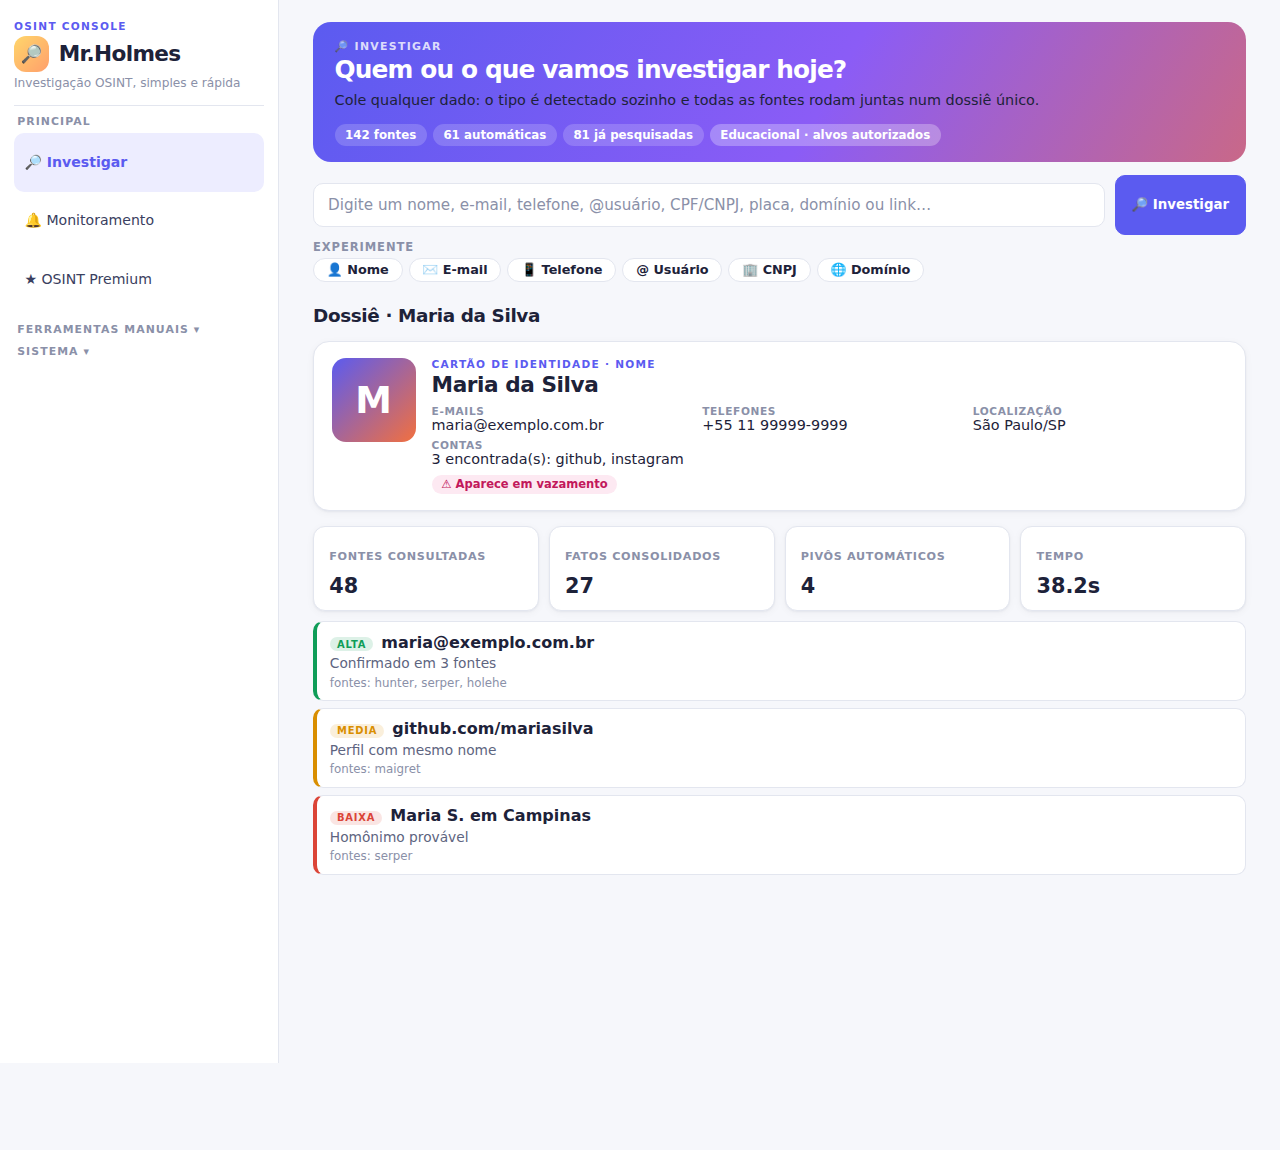
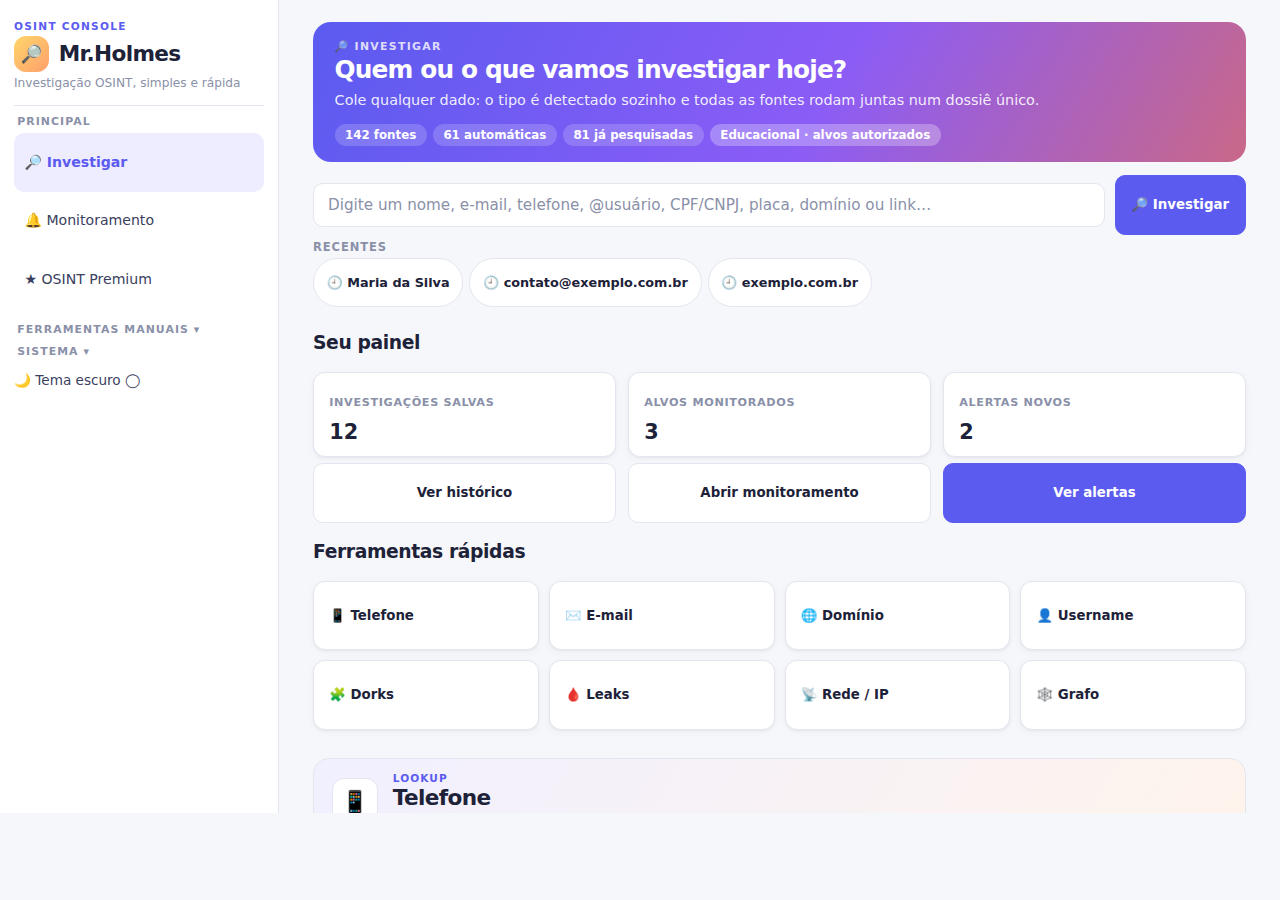
Painel inicial, Enter para investigar, títulos compactos e tema escuro opcional
- Investigar: caixa dentro de formulário, o Enter já dispara a busca
- Painel inicial antes da primeira busca: investigações salvas, alvos
  monitorados, alertas novos e atalhos para as ferramentas manuais
- page_header vira faixa compacta com o ícone da página; blocos de
  destaque internos viram cartões brancos para não repetir a faixa
- Toggle de tema escuro no menu lateral, lembrado via ?tema=escuro;
  o grafo de conexões acompanha o tema

Claude-Session: https://claude.ai/code/session_01Y6gKSdKP94gvzhjGy2zjL9

diff --git a/web_app.py b/web_app.py
@@ -181,18 +181,27 @@ span[class*="material-icons"] {
 }
 [data-testid="stExpander"] [data-testid="stIconMaterial"] { color: var(--ink-faint) !important; }
 
-.mh-page { margin-bottom: 1.1rem; }
+.mh-page {
+  display: flex; align-items: center; gap: 0.9rem;
+  border: 1px solid var(--line); border-radius: 16px; margin-bottom: 1rem;
+  padding: 0.85rem 1.1rem; background: linear-gradient(120deg, #f1f0ff 0%, #fff4ec 100%);
+}
+.mh-page-icon {
+  width: 2.8rem; height: 2.8rem; border-radius: 12px; flex-shrink: 0; font-size: 1.35rem;
+  display: flex; align-items: center; justify-content: center;
+  background: var(--panel); border: 1px solid var(--line);
+}
+.mh-page-body { min-width: 0; }
 .mh-page .eyebrow {
-  display: inline-block; font-size: 0.68rem; letter-spacing: 0.1em; font-weight: 700;
-  text-transform: uppercase; color: var(--accent); background: var(--accent-soft);
-  padding: 0.2rem 0.55rem; border-radius: 999px; margin-bottom: 0.45rem;
+  font-size: 0.66rem; letter-spacing: 0.1em; font-weight: 700;
+  text-transform: uppercase; color: var(--accent);
 }
 .mh-page h1 {
-  font-family: var(--display) !important; font-size: 1.7rem !important; font-weight: 800 !important;
-  color: var(--ink) !important; letter-spacing: -0.035em; margin: 0 !important; padding: 0 !important;
+  font-family: var(--display) !important; font-size: 1.35rem !important; font-weight: 800 !important;
+  color: var(--ink) !important; letter-spacing: -0.03em; margin: 0.05rem 0 0 !important; padding: 0 !important;
   line-height: 1.2 !important;
 }
-.mh-page .desc { margin-top: 0.35rem; color: var(--ink-soft); font-size: 0.93rem; max-width: 44rem; }
+.mh-page .desc { margin-top: 0.2rem; color: var(--ink-soft); font-size: 0.88rem; max-width: 46rem; }
 
 /* ── Botões ──────────────────────────────────────────────────────────────── */
 .stButton > button, .stDownloadButton > button, .stFormSubmitButton > button {
@@ -318,7 +327,7 @@ div:has(.mh-osint-nav-mark) .stButton > button[data-testid="stBaseButton-primary
 /* heróis das páginas: faixa clara e compacta, sem sombra pesada */
 .mh-tools-hero, .mh-premium-hero, .mh-learn-hero, .mh-dork-hero {
   border: 1px solid var(--line); border-radius: var(--radius);
-  background: linear-gradient(120deg, #f1f0ff 0%, #fff4ec 100%);
+  background: var(--panel); box-shadow: var(--shadow);
   padding: 1.05rem 1.2rem; margin-bottom: 1rem;
 }
 .mh-dork-kicker {
@@ -336,7 +345,7 @@ div:has(.mh-osint-nav-mark) .stButton > button[data-testid="stBaseButton-primary
 .mh-tools-stats { display: flex; flex-wrap: wrap; gap: 0.4rem; margin: 0.8rem 0 0 0; }
 .mh-tools-stat {
   font-size: 0.74rem; font-weight: 600; padding: 0.25rem 0.6rem; border-radius: 999px;
-  background: var(--panel); border: 1px solid var(--line); color: var(--ink-soft);
+  background: var(--accent-soft); color: var(--ink-soft);
 }
 .mh-tools-stat strong { color: var(--accent); font-weight: 800; }
 
@@ -445,6 +454,22 @@ a.mh-learn-card:hover { border-color: var(--accent); transform: translateY(-2px)
 }
 [class*="st-key-mh_chips"] .stButton > button p { font-size: 0.8rem !important; }
 
+/* atalhos do painel inicial: cartões clicáveis */
+[class*="st-key-mh_tiles"] .stButton > button {
+  justify-content: flex-start !important; padding: 0.8rem 0.95rem !important; border-radius: 12px !important;
+  box-shadow: var(--shadow) !important;
+}
+[class*="st-key-mh_tiles"] .stButton > button:hover { transform: translateY(-2px) !important; box-shadow: var(--shadow-hover) !important; }
+[class*="st-key-mh_tiles"] .stButton > button p { font-weight: 700 !important; }
+.stFormSubmitButton > button[kind="primaryFormSubmit"] p,
+.stFormSubmitButton > button[data-testid="stBaseButton-primaryFormSubmit"] p { color: #ffffff !important; }
+.stFormSubmitButton > button[data-testid="stBaseButton-primaryFormSubmit"] {
+  background: var(--accent) !important; color: #ffffff !important; border-color: var(--accent) !important;
+}
+.stFormSubmitButton > button[kind="primaryFormSubmit"]:hover,
+.stFormSubmitButton > button[data-testid="stBaseButton-primaryFormSubmit"]:hover { background: var(--accent-hover) !important; }
+[data-testid="stForm"] { padding: 0 !important; border: none !important; }
+
 /* ── Dossiê ─────────────────────────────────────────────────────────────── */
 .mh-fact {
   background: var(--panel); border: 1px solid var(--line); border-left: 4px solid var(--c, var(--ink-faint));
@@ -485,6 +510,52 @@ a.mh-learn-card:hover { border-color: var(--accent); transform: translateY(-2px)
 .mh-soft { color: var(--ink-soft); font-size: 0.85rem; }
 """
 
+# Tema escuro opcional: só redefine as variáveis e as superfícies nativas que
+# o tema claro do Streamlit (config.toml) pintaria de branco.
+_CSS_DARK = r"""
+:root {
+  --ink: #eef0fa;
+  --ink-soft: #a3a9c4;
+  --ink-faint: #7a809c;
+  --paper: #0f1220;
+  --panel: #181c2e;
+  --panel-2: #1f2438;
+  --sidebar: #131627;
+  --sidebar-text: #c9cde0;
+  --accent: #8b8bff;
+  --accent-hover: #a3a3ff;
+  --accent-soft: rgba(139, 139, 255, 0.16);
+  --warm-soft: rgba(242, 112, 63, 0.16);
+  --sun-soft: rgba(245, 180, 0, 0.16);
+  --mint-soft: rgba(16, 178, 124, 0.18);
+  --pink-soft: rgba(232, 72, 138, 0.18);
+  --sky-soft: rgba(31, 155, 220, 0.18);
+  --line: #2c3150;
+  --line-soft: #242940;
+  --shadow: 0 1px 2px rgba(0, 0, 0, 0.3);
+  --shadow-hover: 0 4px 14px rgba(139, 139, 255, 0.18);
+}
+.mh-page { background: linear-gradient(120deg, #1d1f3d 0%, #2a1f24 100%) !important; }
+.mh-flag { color: #ff8fbf !important; }
+.stButton > button[kind="primary"], .stButton > button[data-testid="stBaseButton-primary"],
+.stFormSubmitButton > button[data-testid="stBaseButton-primaryFormSubmit"] { background: #5b5bf0 !important; border-color: #5b5bf0 !important; }
+[data-testid="stSidebar"] .stButton > button[kind="primary"],
+[data-testid="stSidebar"] .stButton > button[data-testid="stBaseButton-primary"] { background: var(--accent-soft) !important; }
+[data-testid="stExpander"] summary, [data-testid="stExpander"] summary p { color: var(--ink) !important; }
+.stCodeBlock pre, [data-testid="stCode"] pre, code { background: var(--panel-2) !important; color: var(--ink) !important; }
+[data-baseweb="popover"] ul, [data-baseweb="popover"] li, [data-baseweb="menu"] { background: var(--panel) !important; color: var(--ink) !important; }
+[data-baseweb="popover"] li:hover { background: var(--panel-2) !important; }
+div[data-testid="stAlert"] p { color: var(--ink) !important; }
+[data-testid="stSpinner"] p, [data-testid="stHeader"] * { color: var(--ink-soft) !important; }
+[data-testid="stSidebarCollapseButton"] *, [data-testid="stSidebarCollapsedControl"] * { color: var(--ink-soft) !important; }
+"""
+
+# Estado do tema: a chave do toggle vale na sessão; ?tema=escuro guarda a
+# preferência na URL para sobreviver ao recarregar a página.
+if "tema_escuro" not in st.session_state:
+    st.session_state["tema_escuro"] = st.query_params.get("tema") == "escuro"
+_TEMA_CSS = _CSS + (_CSS_DARK if st.session_state["tema_escuro"] else "")
+
 _components.html(
     f"""<script>
     (function() {{
@@ -495,7 +566,7 @@ _components.html(
         s.id = 'mh-theme';
         doc.head.appendChild(s);
       }}
-      s.textContent = {_CSS!r};
+      s.textContent = {_TEMA_CSS!r};
     }})();
     </script>""",
     height=0,
@@ -504,10 +575,13 @@ _components.html(
 
 
 def page_header(eyebrow: str, title: str, desc: str = ""):
+    # Mesmo formato da faixa do Investigar, em versão suave: ícone da página,
+    # rótulo, título e uma linha de descrição.
+    icone = NAV_ICON.get(globals().get("page", ""), "🔎")
     desc_html = f'<div class="desc">{desc}</div>' if desc else ""
     st.html(
-        f'<div class="mh-page"><div class="eyebrow">{eyebrow}</div>'
-        f'<h1>{title}</h1>{desc_html}</div>'
+        f'<div class="mh-page"><div class="mh-page-icon">{icone}</div><div class="mh-page-body">'
+        f'<div class="eyebrow">{eyebrow}</div><h1>{title}</h1>{desc_html}</div></div>'
     )
 
 
@@ -649,6 +723,13 @@ with st.sidebar:
         f"Claude {'●' if _prov.get('anthropic') else '○'} · "
         "cole a chave OpenAI na aba Investigar"
     )
+    def _salvar_tema() -> None:
+        if st.session_state.get("tema_escuro"):
+            st.query_params["tema"] = "escuro"
+        elif "tema" in st.query_params:
+            del st.query_params["tema"]
+
+    st.toggle("🌙 Tema escuro", key="tema_escuro", on_change=_salvar_tema)
     st.caption("Educacional · alvos autorizados")
 
 

diff --git a/holmes_ui.py b/holmes_ui.py
@@ -328,7 +328,8 @@ def _render_dossier(dossier) -> None:
         if g["nos"] > 1:
             with st.expander(f"🕸 Grafo de conexões ({g['nos']} nós, {g['conexoes']} ligações)",
                              expanded=False):
-                _components.html(_graph.to_html(dossier), height=580, scrolling=False)
+                _components.html(_graph.to_html(dossier, escuro=bool(st.session_state.get("tema_escuro"))),
+                                 height=580, scrolling=False)
     except Exception:
         pass
 
@@ -541,6 +542,72 @@ def _chips_rapidos() -> None:
                                on_click=_preencher_alvo, args=(valor,))
 
 
+# Atalhos do painel inicial: as ferramentas manuais mais usadas.
+_ATALHOS = [
+    ("📱", "Telefone", "Telefone"),
+    ("✉", "E-mail", "Email"),
+    ("🌐", "Domínio", "Domínio"),
+    ("👤", "Username", "OSINT Avançado"),
+    ("🧩", "Dorks", "Dorks"),
+    ("🩸", "Leaks", "Leaks"),
+    ("📡", "Rede / IP", "Rede"),
+    ("🕸", "Grafo", "Gráfico"),
+]
+
+
+def _ir_para(page_id: str) -> None:
+    from osint_premium import queue_navigation
+
+    queue_navigation(st.session_state, page_id)
+
+
+def _painel_inicial() -> None:
+    """Resumo do dia e atalhos, no lugar da tela vazia antes da primeira busca."""
+    total_hist = vigiados = novos = 0
+    try:
+        from holmes import history
+
+        total_hist = len(history.list_entries(limit=200))
+    except Exception:
+        pass
+    try:
+        from holmes import monitor
+
+        vigiados = len(monitor.watchlist())
+        novos = monitor.unread_count()
+    except Exception:
+        pass
+
+    st.markdown("### Seu painel")
+    c1, c2, c3 = st.columns(3)
+    with c1:
+        st.metric("Investigações salvas", f"{total_hist}+" if total_hist >= 200 else total_hist)
+        st.button("Ver histórico", key="pi_hist", use_container_width=True,
+                  on_click=_ir_para, args=("Histórico",))
+    with c2:
+        st.metric("Alvos monitorados", vigiados)
+        st.button("Abrir monitoramento", key="pi_mon", use_container_width=True,
+                  on_click=_ir_para, args=("Monitoramento",))
+    with c3:
+        st.metric("Alertas novos", novos)
+        st.button("Ver alertas" if novos else "Nada novo por aqui", key="pi_alert",
+                  use_container_width=True, type="primary" if novos else "secondary",
+                  on_click=_ir_para, args=("Monitoramento",))
+
+    st.markdown("### Ferramentas rápidas")
+    with st.container(key="mh_tiles"):
+        for inicio in range(0, len(_ATALHOS), 4):
+            cols = st.columns(4)
+            for col, (icone, rotulo, page_id) in zip(cols, _ATALHOS[inicio:inicio + 4]):
+                col.button(f"{icone}  {rotulo}", key=f"pi_tool_{page_id}", use_container_width=True,
+                           on_click=_ir_para, args=(page_id,))
+
+    st.caption(
+        "Dica: se você tem um bloco de texto (assinatura de e-mail, print de cadastro), "
+        "cole só o dado principal. O motor extrai o resto sozinho pelos pivôs."
+    )
+
+
 def display_investigar() -> None:
     ensure_registered()
     from holmes import serp
@@ -581,14 +648,16 @@ def display_investigar() -> None:
         elif health["provider"] == "duckduckgo":
             st.warning(health["message"], icon="⚠")
 
-        col_in, col_btn = st.columns([4, 1])
-        with col_in:
-            alvo = st.text_input(
-                "Alvo", key="holmes_target", label_visibility="collapsed",
-                placeholder="Digite um nome, e-mail, telefone, @usuário, CPF/CNPJ, placa, domínio ou link…",
-            )
-        with col_btn:
-            rodar = st.button("🔎 Investigar", type="primary", use_container_width=True)
+        # Formulário para o Enter já disparar a investigação, sem precisar do clique.
+        with st.form("holmes_form", border=False):
+            col_in, col_btn = st.columns([4, 1])
+            with col_in:
+                alvo = st.text_input(
+                    "Alvo", key="holmes_target", label_visibility="collapsed",
+                    placeholder="Digite um nome, e-mail, telefone, @usuário, CPF/CNPJ, placa, domínio ou link…",
+                )
+            with col_btn:
+                rodar = st.form_submit_button("🔎 Investigar", type="primary", use_container_width=True)
 
         _chips_rapidos()
 
@@ -677,10 +746,7 @@ def display_investigar() -> None:
             st.markdown("---")
             _render_chat(dossier)
         elif not rodar:
-            st.caption(
-                "Dica: se você tem um bloco de texto (assinatura de e-mail, print de cadastro), "
-                "cole só o dado principal — o motor extrai o resto sozinho pelos pivôs."
-            )
+            _painel_inicial()
 
 
 def _render_foto() -> None:

diff --git a/holmes/graph.py b/holmes/graph.py
@@ -131,22 +131,38 @@ def _tooltip(fato) -> str:
     return " | ".join(partes)
 
 
-def to_html(dossier: Dossier, altura: int = 560) -> str:
+# Cores do iframe por tema: (fundo, painel da legenda, borda, texto, destaque, dica)
+_TEMA = {
+    False: ("#ffffff", "rgba(255,255,255,.92)", "#e3e6ef", "#5d6480", "#1d2239", "#8a90a8"),
+    True: ("#141726", "rgba(20,23,38,.92)", "#2c3150", "#a3a9c4", "#eef0fa", "#7a809c"),
+}
+
+
+def to_html(dossier: Dossier, altura: int = 560, escuro: bool = False) -> str:
     """HTML autocontido com o grafo interativo (arrastar, zoom, clicar)."""
     dados = build(dossier)
+    fundo, painel, borda, texto, forte, dica = _TEMA[bool(escuro)]
+    if escuro:
+        # Rótulos claros com contorno escuro para ler sobre o fundo escuro.
+        for no in dados["nodes"]:
+            fonte = no.get("font") or {}
+            fonte["color"] = forte if no["id"] == "alvo" else texto
+            if "strokeColor" in fonte:
+                fonte["strokeColor"] = fundo
+            no["font"] = fonte
     dados_json = json.dumps(dados, ensure_ascii=False)
     alvo = html.escape(dossier.entity.value)
 
     return f"""<!DOCTYPE html><html><head><meta charset="utf-8">
 <script src="https://cdn.jsdelivr.net/npm/vis-network@9.1.9/standalone/umd/vis-network.min.js"></script>
 <style>
-  body{{margin:0;background:#ffffff;font-family:ui-sans-serif,-apple-system,'Segoe UI',Roboto,sans-serif}}
+  body{{margin:0;background:{fundo};font-family:ui-sans-serif,-apple-system,'Segoe UI',Roboto,sans-serif}}
   #rede{{width:100%;height:{altura}px}}
-  .legenda{{position:absolute;top:8px;left:8px;background:rgba(255,255,255,.92);
-    border:1px solid #e3e6ef;border-radius:10px;padding:8px 10px;
-    font-size:11px;color:#5d6480;line-height:1.7;z-index:5}}
-  .legenda b{{color:#1d2239}}
-  .dica{{position:absolute;bottom:8px;right:12px;font-size:11px;color:#8a90a8;z-index:5}}
+  .legenda{{position:absolute;top:8px;left:8px;background:{painel};
+    border:1px solid {borda};border-radius:10px;padding:8px 10px;
+    font-size:11px;color:{texto};line-height:1.7;z-index:5}}
+  .legenda b{{color:{forte}}}
+  .dica{{position:absolute;bottom:8px;right:12px;font-size:11px;color:{dica};z-index:5}}
 </style></head><body>
 <div class="legenda">
   <b>{alvo}</b><br>
